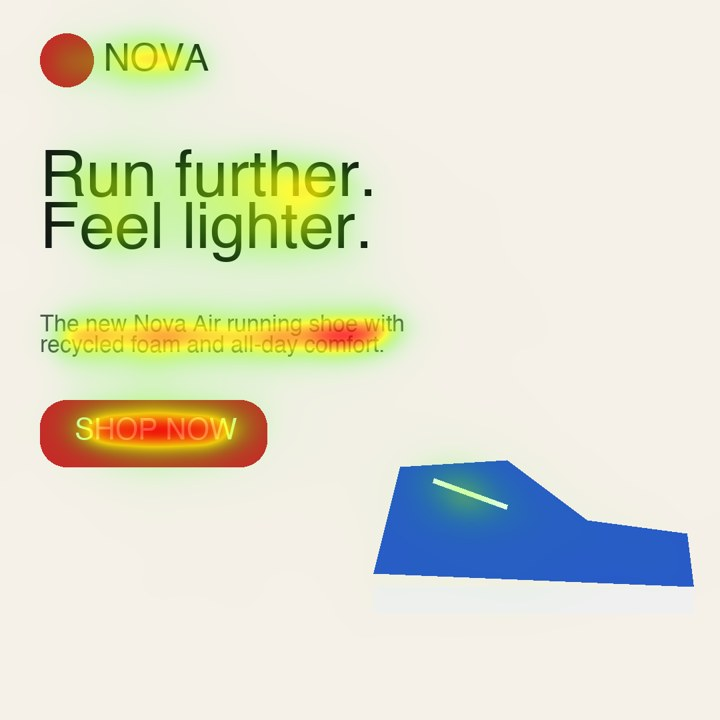
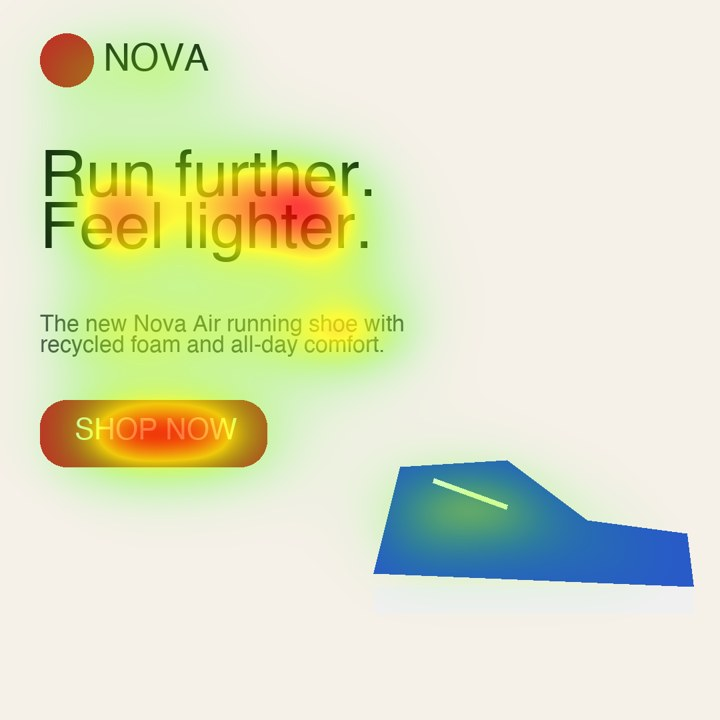
Site: example outputs and readout regenerated with UNISAL

Changed region(s): [[0.0306, 0.0306, 0.5806, 0.7028], [0.5194, 0.6417, 0.7944, 0.7944]]

diff --git a/docs/index.html b/docs/index.html
@@ -319,17 +319,17 @@ body::after { content: ""; position: fixed; inset: 0; pointer-events: none; z-in
       <div class="readout">
         <div class="frame reveal"><span class="name">ad.png · AOIs</span><div class="box"><img src="img/ad-aois.jpg" alt="Predicted heatmap on the example ad with boxes around the brand, headline, body copy and CTA"></div></div>
         <div class="frame reveal"><span class="name">scores.json</span><div class="box pad">
-          <div class="score"><b>7.1</b><span>/ 10 · ready to launch, but the brand is under-seen</span></div>
+          <div class="score"><b>6.7</b><span>/ 10 · optimise: the brand is barely seen</span></div>
           <table>
             <thead><tr><th>AOI</th><th>Attention</th><th>Area</th><th>Lift</th></tr></thead>
             <tbody>
-              <tr><td>Headline</td><td class="n bar-cell">28.7%<i style="width:57%"></i></td><td class="n">7.5%</td><td class="n">3.8×</td></tr>
-              <tr><td>Body copy</td><td class="n bar-cell">26.8%<i style="width:54%"></i></td><td class="n">3.2%</td><td class="n">8.3×</td></tr>
-              <tr><td>CTA</td><td class="n bar-cell">17.7%<i style="width:35%"></i></td><td class="n">2.9%</td><td class="n">6.1×</td></tr>
-              <tr><td>Brand</td><td class="n bar-cell">4.1%<i style="width:8%"></i></td><td class="n">0.7%</td><td class="n">5.9×</td></tr>
+              <tr><td>Headline</td><td class="n bar-cell">36.0%<i style="width:72%"></i></td><td class="n">7.5%</td><td class="n">4.8×</td></tr>
+              <tr><td>CTA</td><td class="n bar-cell">13.7%<i style="width:27%"></i></td><td class="n">2.9%</td><td class="n">4.7×</td></tr>
+              <tr><td>Body copy</td><td class="n bar-cell">10.8%<i style="width:22%"></i></td><td class="n">3.2%</td><td class="n">3.4×</td></tr>
+              <tr><td>Brand</td><td class="n bar-cell">1.3%<i style="width:3%"></i></td><td class="n">0.7%</td><td class="n">1.8×</td></tr>
             </tbody>
           </table>
-          <p class="muted" style="font-size:15px;margin:18px 0 0">The NOVA logo punches above its size (5.9× lift) but takes only 4% of attention, so its brand score is 3.5/10. The fix is a bigger wordmark, not a louder headline.</p>
+          <p class="muted" style="font-size:15px;margin:18px 0 0">The headline takes over a third of all attention while the NOVA logo gets 1.3%, so the brand score is 1.8/10 and the ad lands in "optimise". The fix is a bigger wordmark near the headline, not more copy.</p>
         </div></div>
       </div>
     </div>
@@ -361,7 +361,7 @@ body::after { content: ""; position: fixed; inset: 0; pointer-events: none; z-in
           </div>
           <div class="chart">
             <div class="legend"><span style="--c:#ececef">Memory</span><span style="--c:#8b8e98">Focus</span><span style="--c:#5c5f69">Cognitive demand</span><span style="--c:transparent">┆ hard cut</span></div>
-            <svg id="timeline" viewBox="0 0 800 220" role="img" aria-label="Timeline: memory drops from about 97 to 86 at the cut at 3 seconds, focus stays near 78, cognitive demand stays under 11"></svg>
+            <svg id="timeline" viewBox="0 0 800 220" role="img" aria-label="Timeline: memory drops from about 97 to 86 at the cut at 3 seconds, focus stays near 76, cognitive demand stays under 11"></svg>
           </div>
         </div>
       </div>
@@ -483,7 +483,7 @@ body::after { content: ""; position: fixed; inset: 0; pointer-events: none; z-in
   const hint = document.getElementById("hint"), cap = document.getElementById("cap");
   const modes = {
     you: ["img/ad.jpg", "Where did your eye go first? Wave across the ad to clear the fog, then compare with the model's prediction."],
-    heat: ["img/ad-heat.jpg", "Predicted attention: red is where most viewers look. The CTA, headline and body copy win; the shoe barely registers."],
+    heat: ["img/ad-heat.jpg", "Predicted attention: red is where most viewers look. The headline and CTA win; the logo and the shoe barely register."],
     fog: ["img/ad-fog.jpg", "Predicted fog: anything still fogged is likely missed. The product and most of the background vanish."],
     aois: ["img/ad-aois.jpg", "Auto-detected areas of interest, each labelled with its share of total attention."],
   };
@@ -509,7 +509,7 @@ body::after { content: ""; position: fixed; inset: 0; pointer-events: none; z-in
   Object.values(modes).forEach(([src]) => { const i = new Image(); i.src = src; });
 
   // timeline from the example video's scores.json: [t, focus, cognitive demand, memory]
-  const data = { cuts: [3.0], timeline: [[0.0,78.3,7.8,97.2],[0.52,78.0,8.8,96.6],[1.0,77.4,8.9,96.4],[1.52,77.0,9.5,96.9],[2.0,76.6,9.7,96.6],[2.52,76.2,10.1,97.3],[3.0,74.4,5.1,86.2],[3.52,80.2,6.6,84.2],[4.0,80.0,6.7,87.4],[4.52,79.8,6.9,86.9],[5.0,79.4,6.9,88.0],[5.52,79.0,7.3,89.2]] };
+  const data = { cuts: [3.0], timeline: [[0.0,75.6,7.8,97.2],[0.52,75.6,8.8,96.6],[1.0,75.5,8.9,96.4],[1.52,75.3,9.5,96.9],[2.0,75.1,9.7,96.6],[2.52,74.7,10.1,97.3],[3.0,74.0,5.1,86.2],[3.52,77.6,6.6,84.2],[4.0,77.6,6.7,87.4],[4.52,77.5,6.9,86.9],[5.0,77.3,6.9,88.0],[5.52,77.3,7.3,89.2]] };
   const svg = document.getElementById("timeline"), W = 800, H = 220, L = 34, B = 26, T = 8, xmax = 6;
   const x = (t) => L + (t / xmax) * (W - L - 8), y = (v) => T + (1 - v / 100) * (H - T - B);
   const font = 'font-family="Archivo, sans-serif" font-size="11" fill="#8b8e98"';
